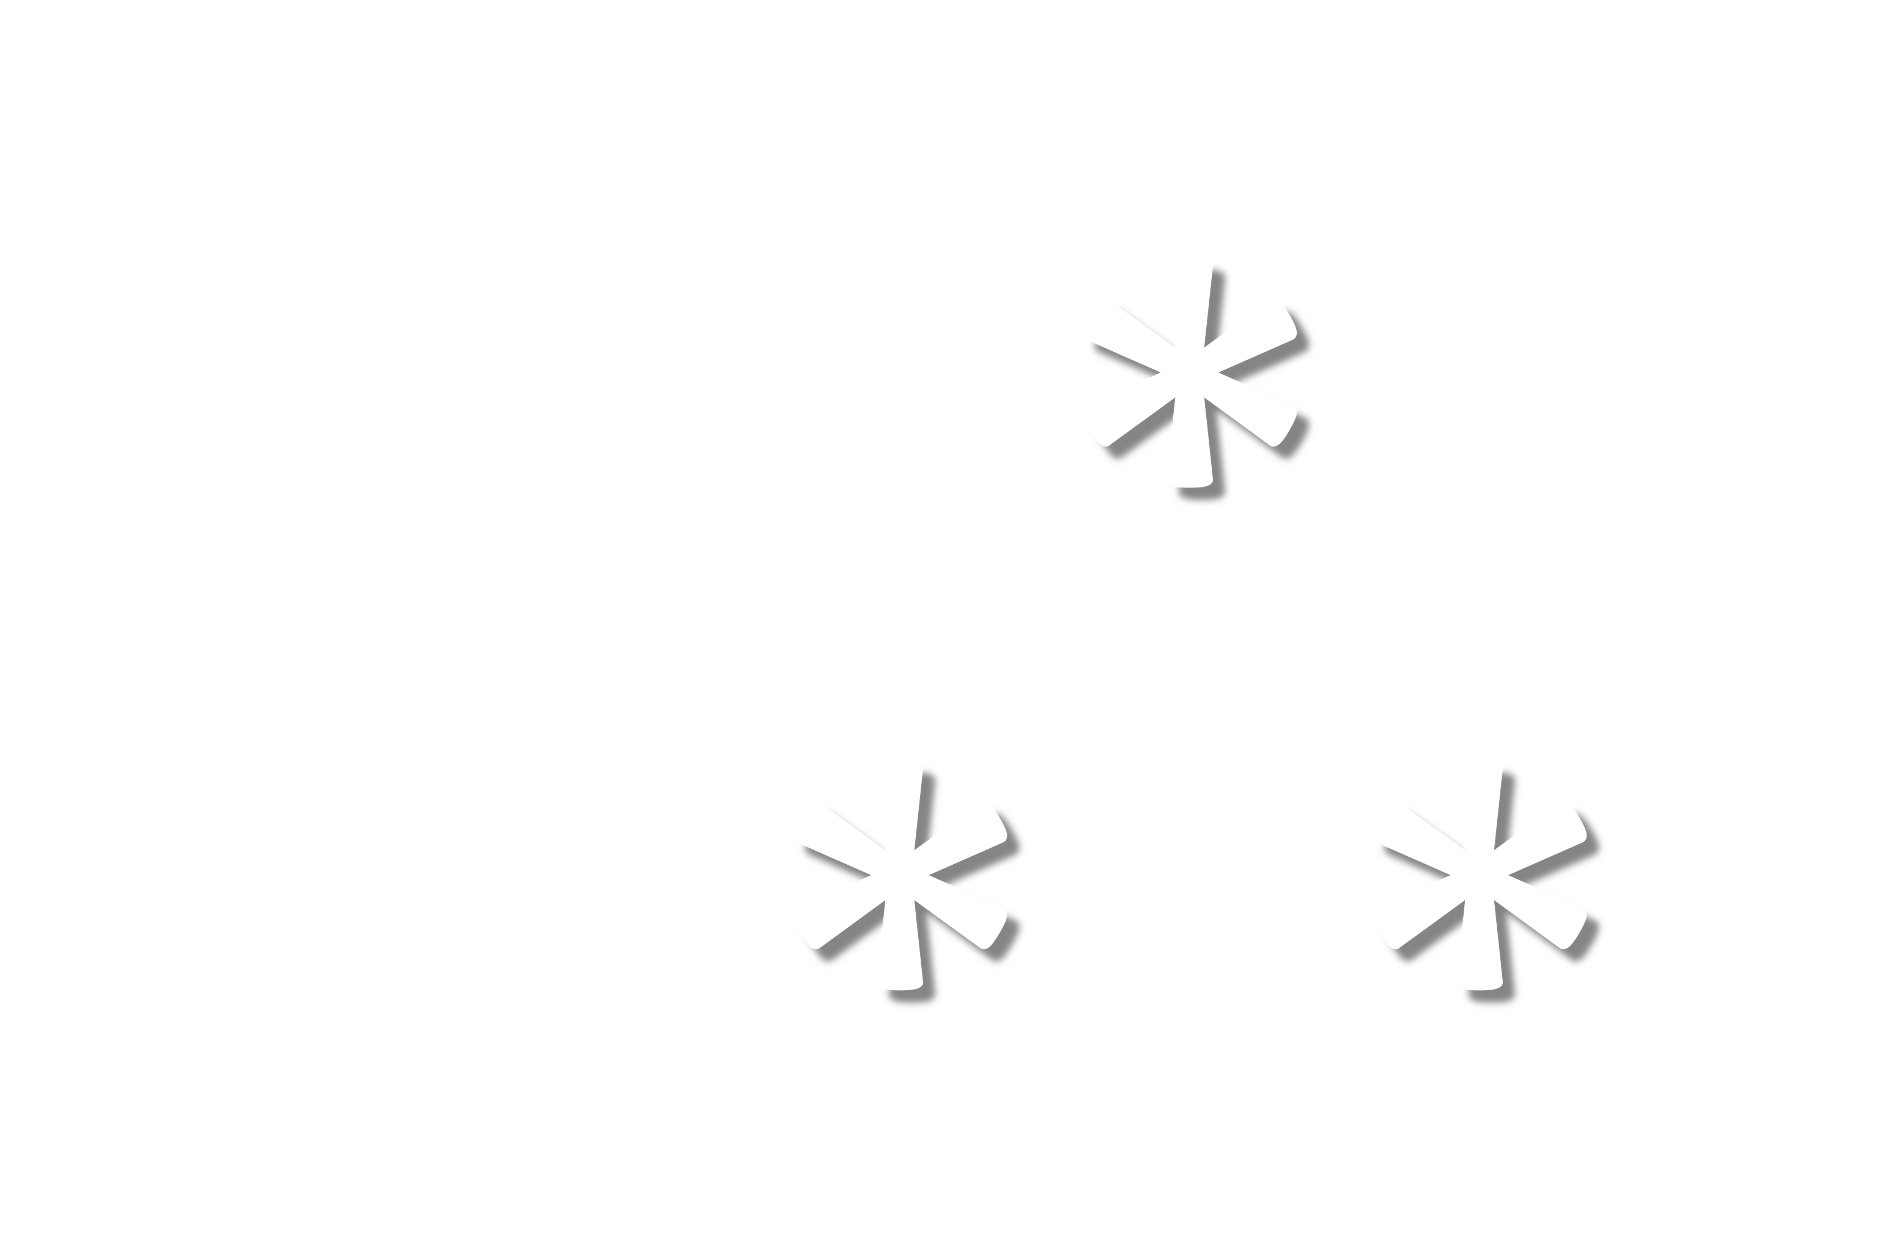
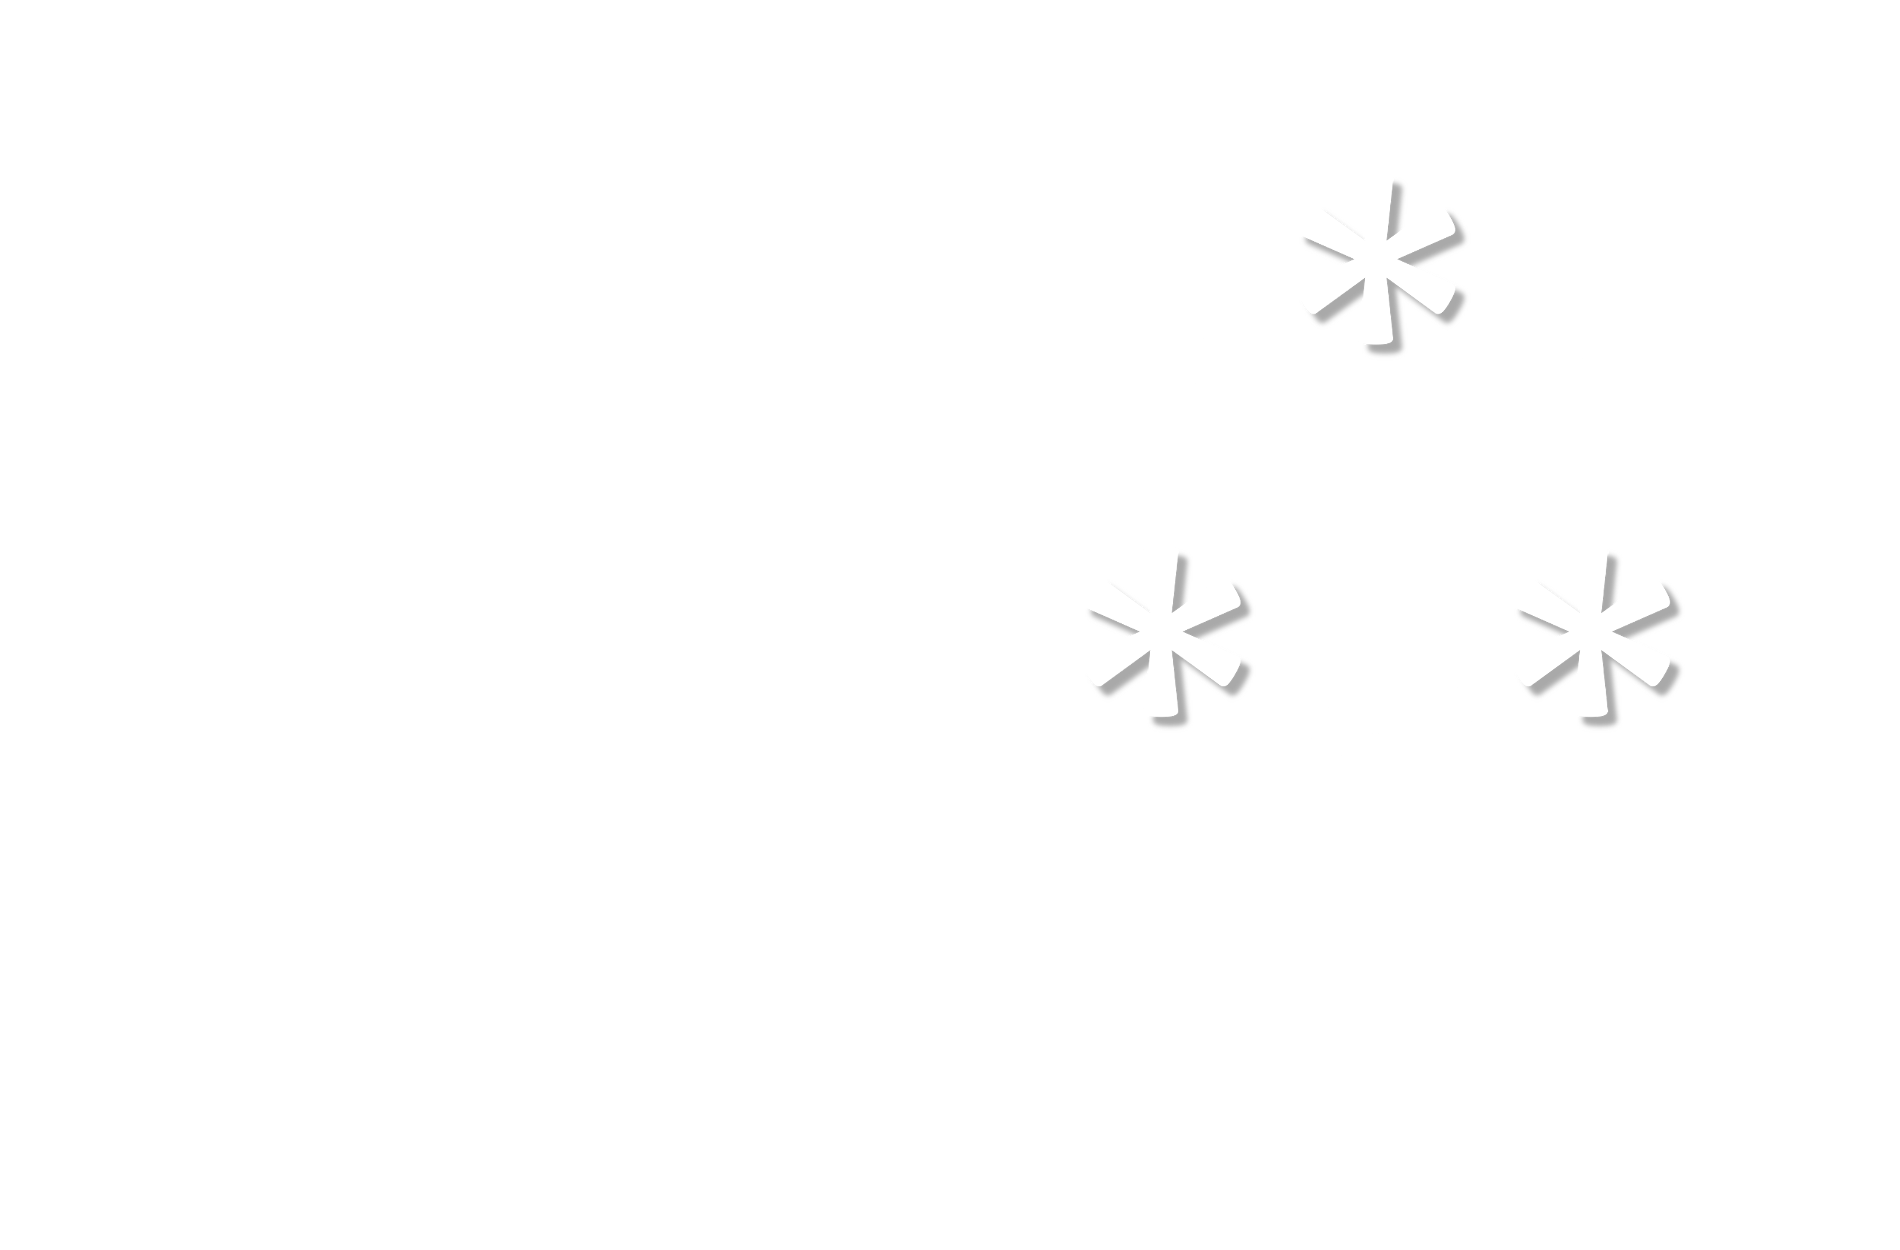
new bg

diff --git a/_includes/css/agency.css b/_includes/css/agency.css
@@ -272,18 +272,17 @@ header {
     background-color: #00897b;
     background-attachment: scroll;
     background-image: url('{{ site.baseurl }}/img/asterism_bg.png');
-    background-position: center center;
+    background-position: bottom;
     background-repeat: none;
-    -webkit-background-size: cover;
-    -moz-background-size: cover;
-    background-size: cover;
-    -o-background-size: cover;
+    -webkit-background-size: 100% 100%;
+    -moz-background-size: 100% 100%;
+    background-size: 100% 100%;
+    -o-background-size: 100% 100%;
 }
 
 header .intro-text {
-    padding-top: 100px;
-    padding-bottom: 50px;
-    background-color: #00897b;
+    padding-top: 90px;
+    padding-bottom: 90px;
     background-attachment: scroll;
     background-image: url('{{ site.baseurl }}/img/asterism.png');
     background-position: center center;
@@ -314,8 +313,8 @@ header .intro-text .intro-heading {
 
 @media(min-width:768px) {
     header .intro-text {
-        padding-top: 300px;
-        padding-bottom: 200px;
+        padding-top: 200px;
+        padding-bottom: 350px;
     }
 
     header .intro-text .intro-lead-in {
